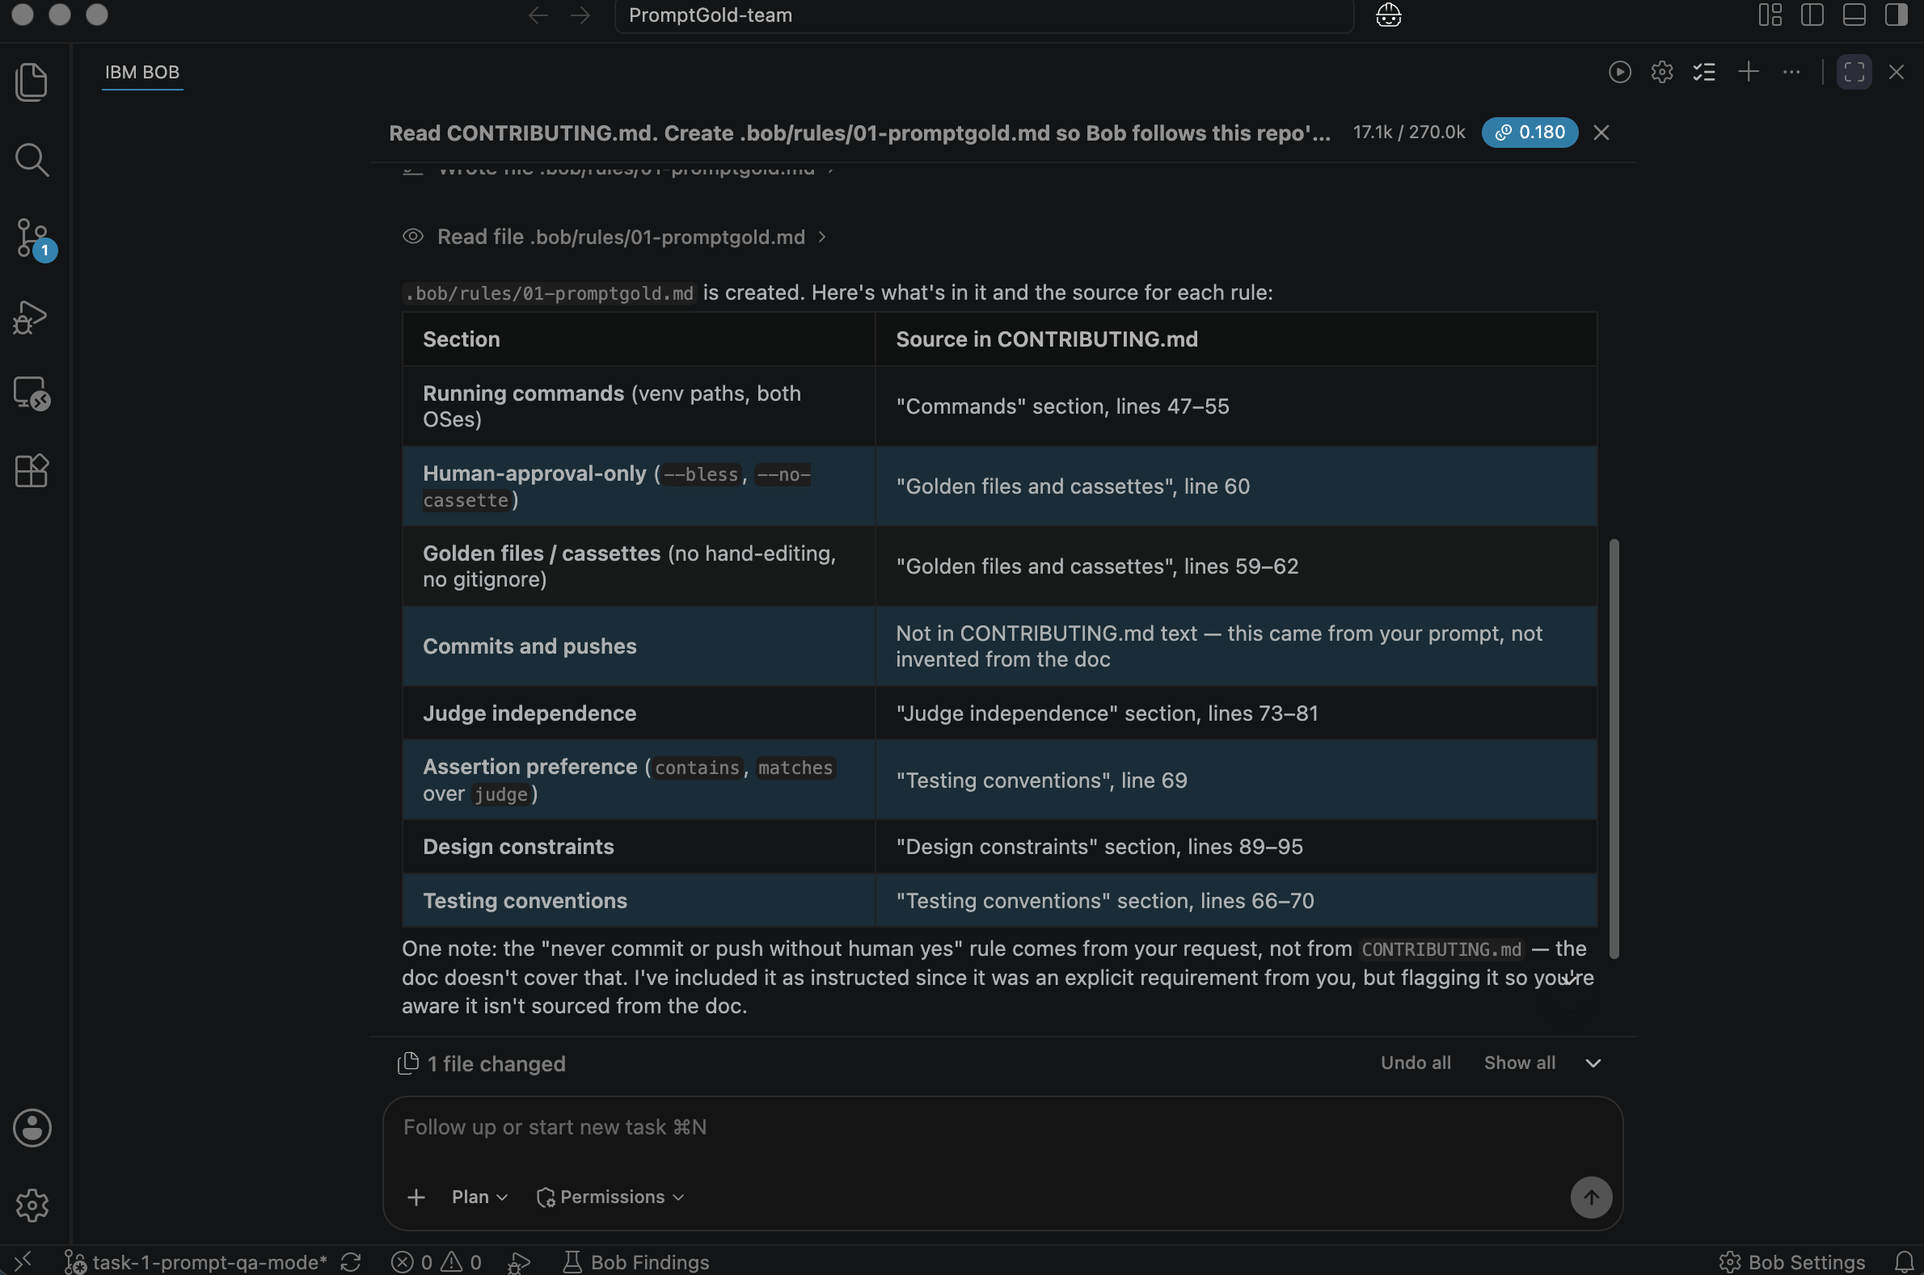
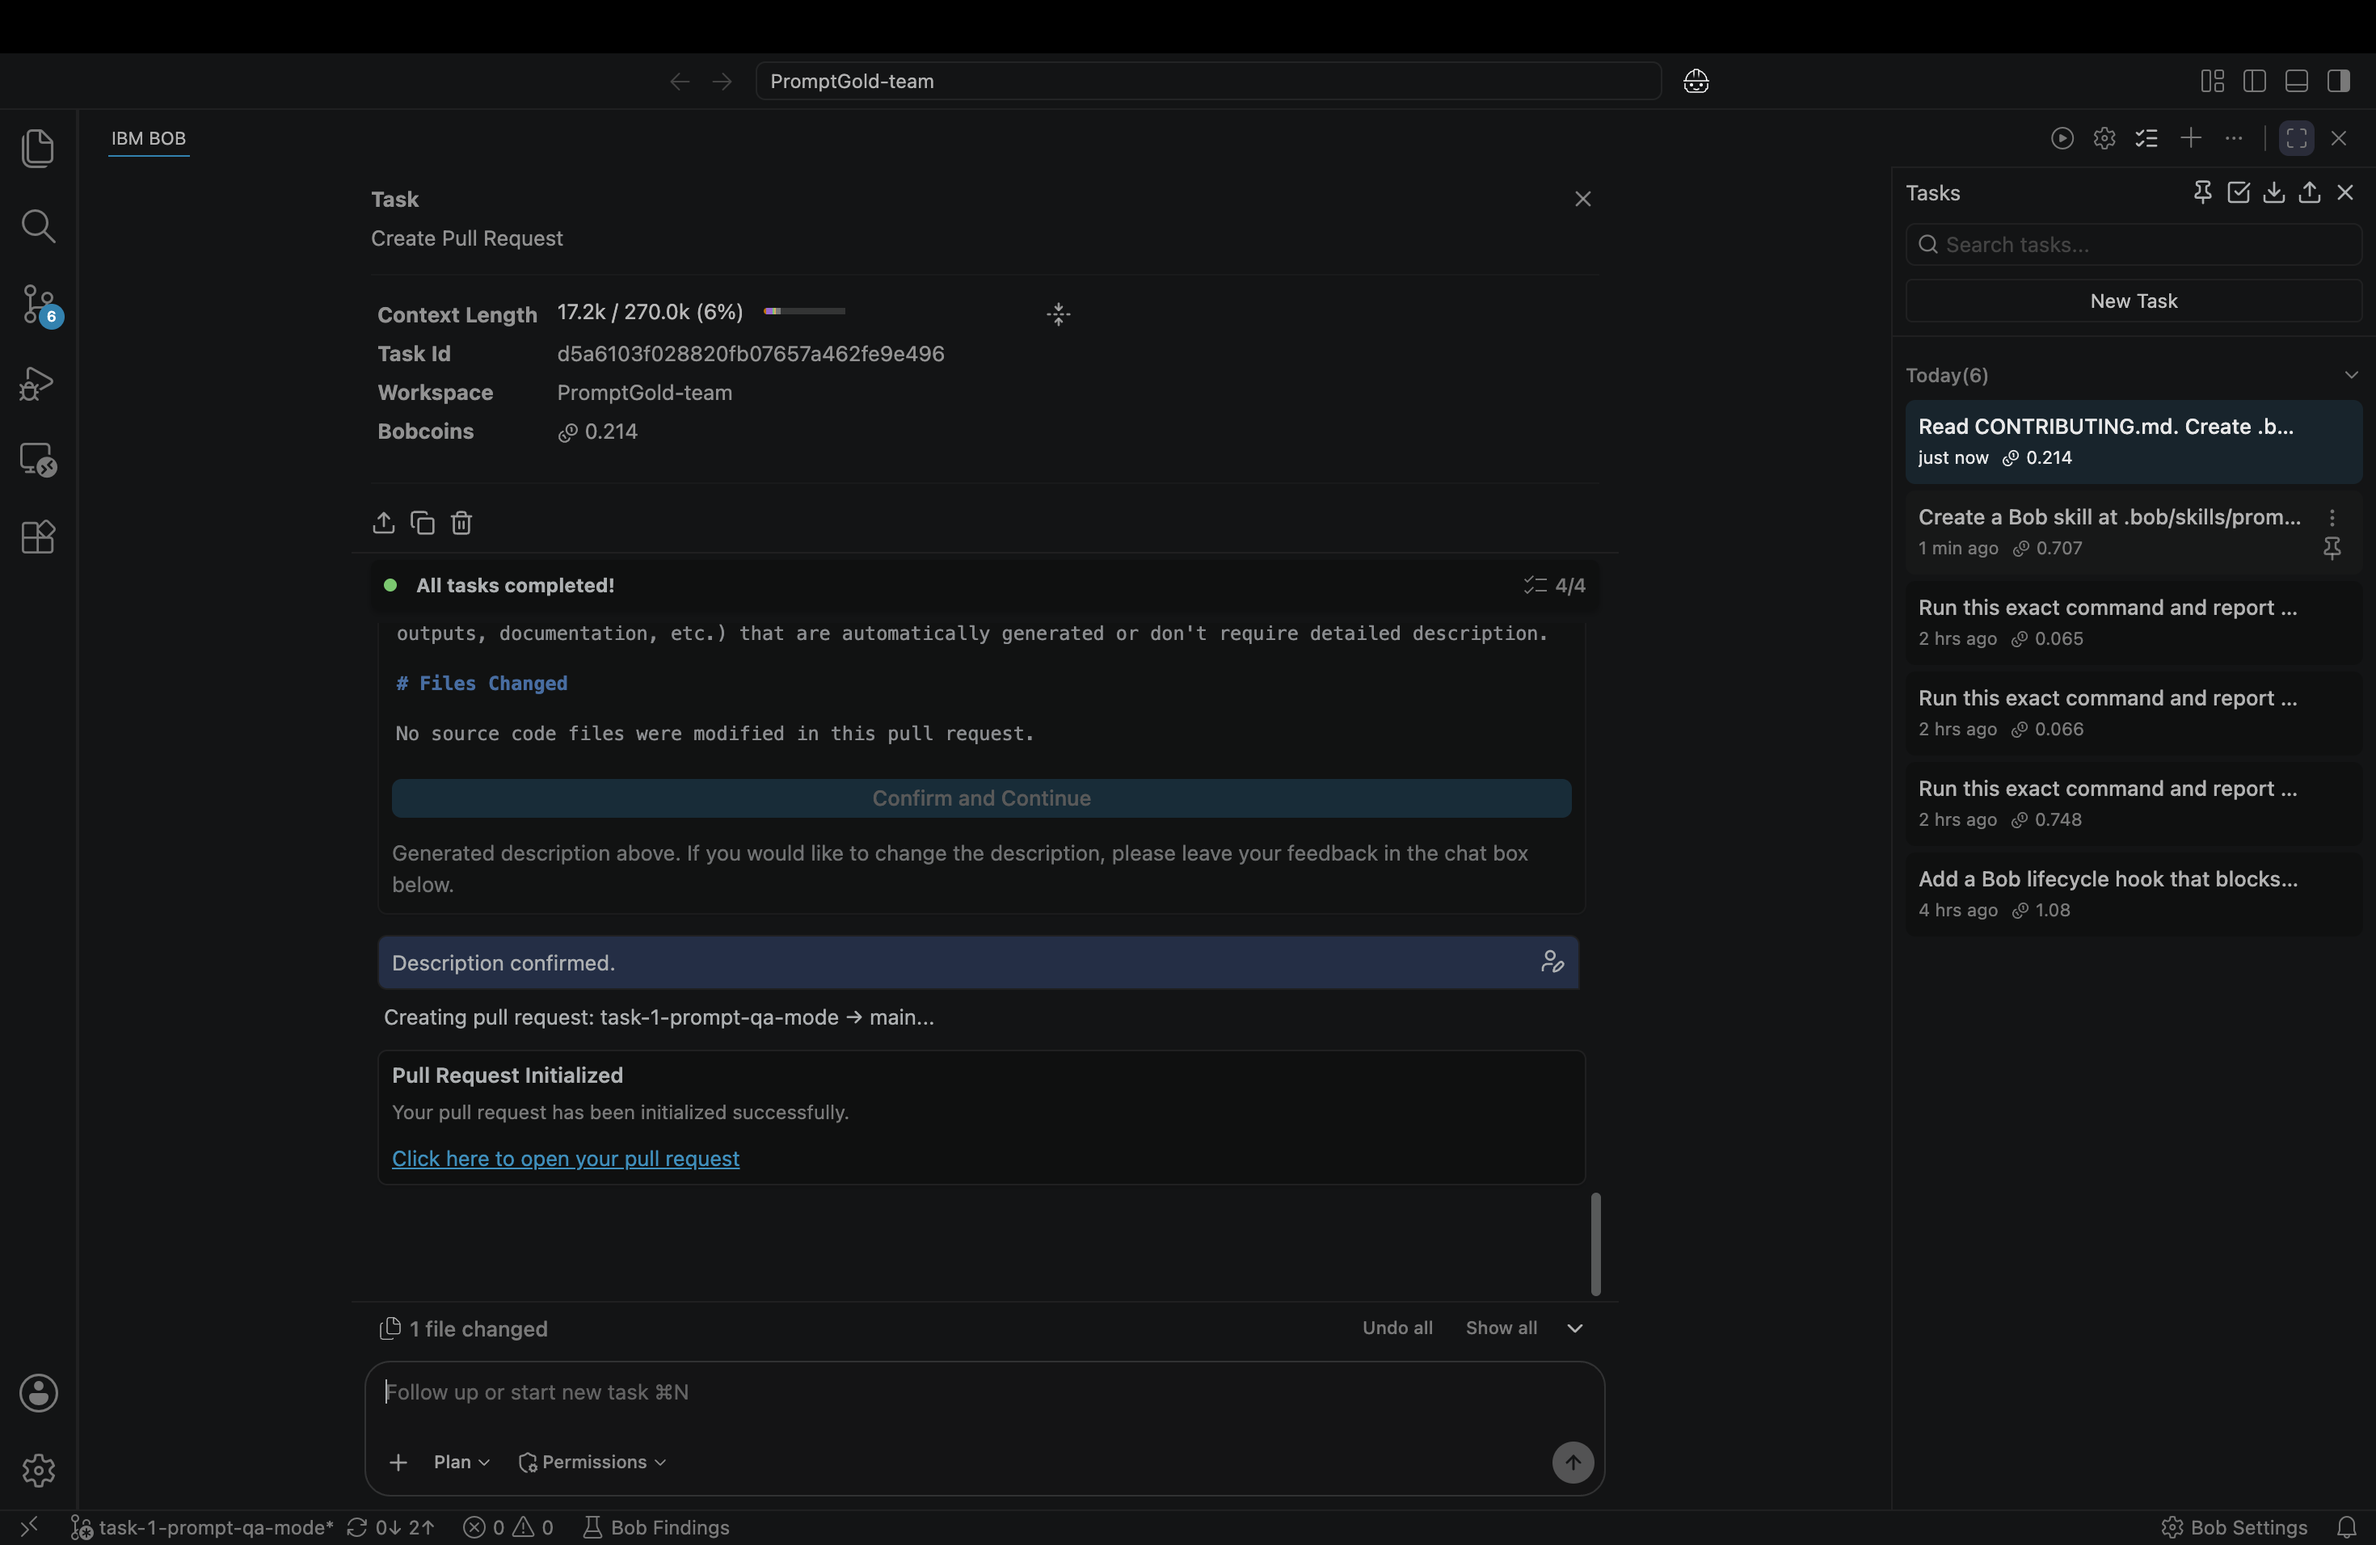
feat(task-1): add block_bless hook to prevent autonomous --bless use

diff --git a/tests/test_block_bless.py b/tests/test_block_bless.py
@@ -1,0 +1,89 @@
+"""
+Tests for .bob/hooks/block_bless.py
+
+Runs the hook script via subprocess with sys.executable so the active venv Python
+is always used. No Bob process is required.
+"""
+
+import json
+import subprocess
+import sys
+from pathlib import Path
+
+HOOK = str(Path(__file__).parent.parent / ".bob" / "hooks" / "block_bless.py")
+
+
+def _run(payload: str) -> subprocess.CompletedProcess:
+    return subprocess.run(
+        [sys.executable, HOOK],
+        input=payload,
+        capture_output=True,
+        text=True,
+    )
+
+
+def _make_command_payload(command: str) -> str:
+    return json.dumps({
+        "session_id": "test-session",
+        "cwd": "/workspace",
+        "hook_event_name": "PreToolUse",
+        "tool_name": "execute_command",
+        "tool_input": {"command": command},
+        "tool_use_id": "test-tool-use-id",
+    })
+
+
+def test_blocked_bless():
+    """Commands containing --bless must be blocked (exit 2)."""
+    result = _run(_make_command_payload("./.venv/bin/pytest --bless"))
+    assert result.returncode == 2
+    assert "--bless" in result.stderr
+
+
+def test_blocked_no_cassette():
+    """Commands containing --no-cassette must be blocked (exit 2)."""
+    result = _run(_make_command_payload("./.venv/bin/pytest --no-cassette"))
+    assert result.returncode == 2
+    assert "--no-cassette" in result.stderr
+
+
+def test_allowed_normal_pytest():
+    """Normal pytest commands must be allowed (exit 0)."""
+    result = _run(_make_command_payload("./.venv/bin/pytest tests/"))
+    assert result.returncode == 0
+
+
+def test_allowed_non_command_payload_mentioning_bless():
+    """
+    A non-execute_command payload (e.g. write_file) whose content mentions --bless
+    must be allowed (exit 0). Only tool_input.command is inspected.
+    """
+    payload = json.dumps(
+        {
+            "session_id": "test-session",
+            "cwd": "/workspace",
+            "hook_event_name": "PreToolUse",
+            "tool_name": "write_file",
+            "tool_input": {
+                "path": "README.md",
+                "content": "Run with --bless to record verdicts.",
+            },
+            "tool_use_id": "test-tool-use-id",
+        }
+    )
+    result = _run(payload)
+    assert result.returncode == 0
+
+
+def test_allowed_empty_stdin():
+    """Empty stdin must be allowed (exit 0) and produce a warning on stderr."""
+    result = _run("")
+    assert result.returncode == 0
+    assert result.stderr.strip() != ""
+
+
+def test_allowed_invalid_json():
+    """Invalid JSON on stdin must be allowed (exit 0) and produce a warning on stderr."""
+    result = _run("not valid json {{{")
+    assert result.returncode == 0
+    assert result.stderr.strip() != ""

diff --git a/.bob/hooks/block_bless.py b/.bob/hooks/block_bless.py
@@ -1,0 +1,46 @@
+"""
+PreToolUse hook — blocks execute_command calls that contain --bless or --no-cassette.
+
+Exit codes:
+  0  allow the tool call to proceed
+  2  block the tool call (Bob treats exit 2 as a hard block)
+
+Any other non-zero exit is treated by Bob as a benign hook failure and ignored,
+so parse errors fall through as exit 0 with a stderr warning.
+"""
+
+import json
+import sys
+
+
+def main() -> None:
+    raw = sys.stdin.read()
+
+    if not raw.strip():
+        print("block_bless: empty stdin, skipping check", file=sys.stderr)
+        sys.exit(0)
+
+    try:
+        payload = json.loads(raw)
+    except json.JSONDecodeError as exc:
+        print(f"block_bless: invalid JSON on stdin ({exc}), skipping check", file=sys.stderr)
+        sys.exit(0)
+
+    # Real Bob payload uses "tool_input"; fall back to legacy "input" for safety.
+    tool_input = payload.get("tool_input") or payload.get("input") or {}
+    command = tool_input.get("command", "")
+
+    for flag in ("--bless", "--no-cassette"):
+        if flag in command:
+            print(
+                f"block_bless: '{flag}' is a human-approval-only flag. "
+                "Run this command yourself in your own terminal.",
+                file=sys.stderr,
+            )
+            sys.exit(2)
+
+    sys.exit(0)
+
+
+if __name__ == "__main__":
+    main()
